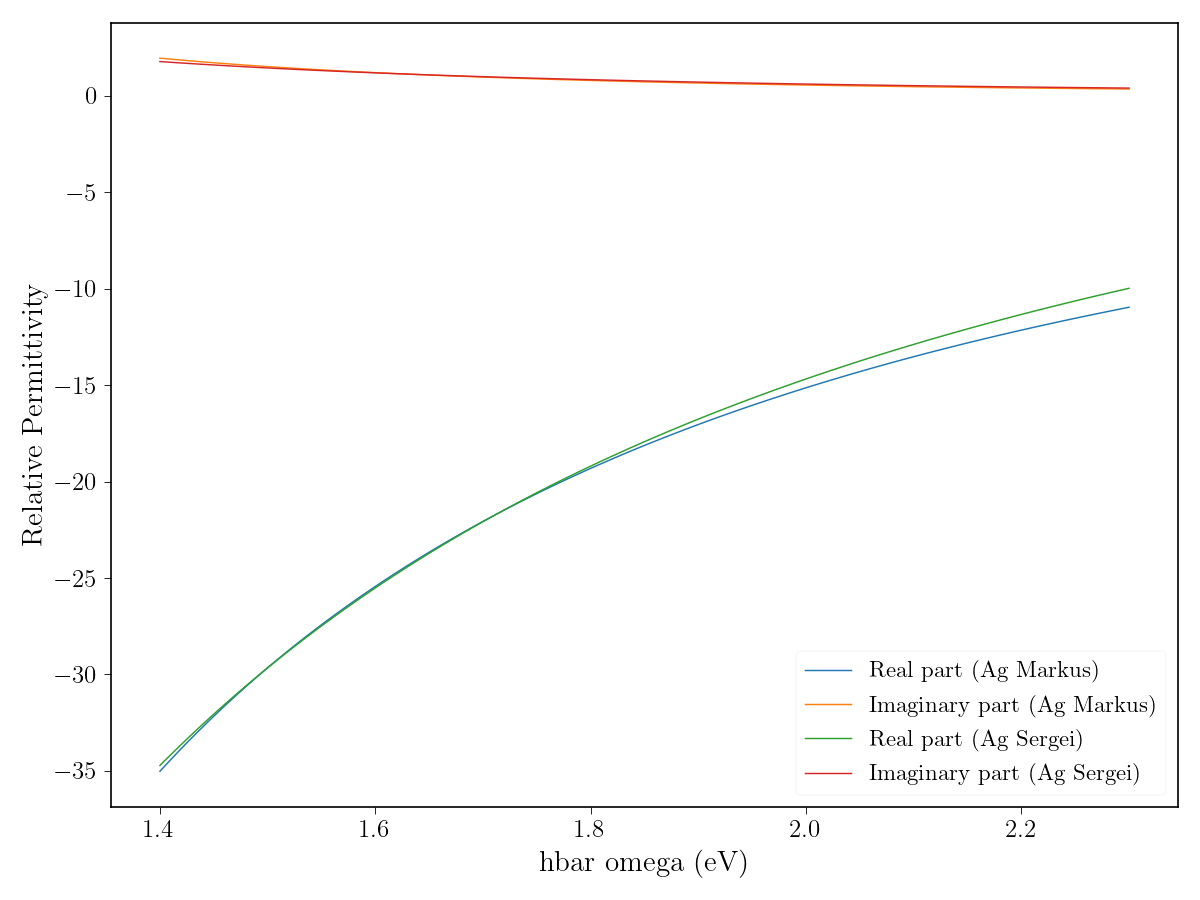
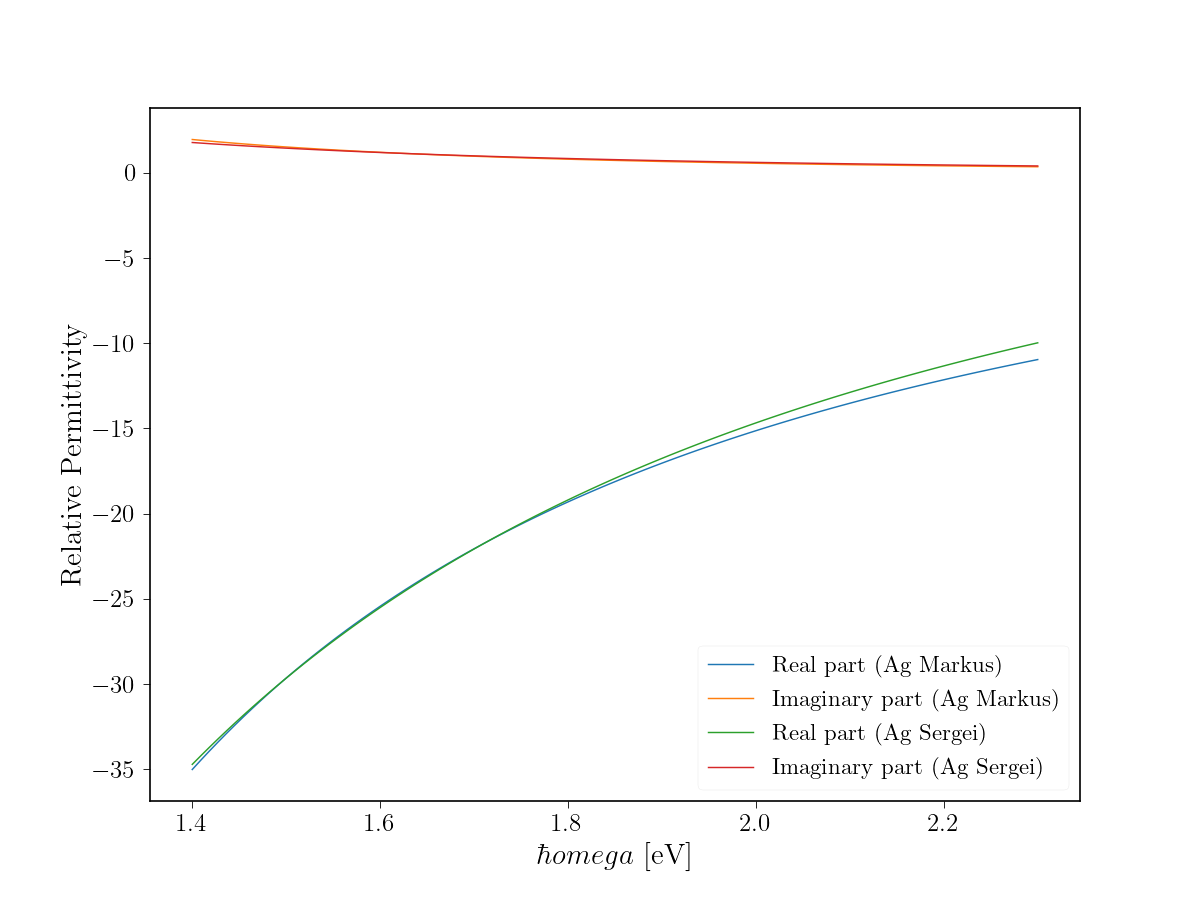
experimentation

diff --git a/qnmsc/track_qnms_osc.py b/qnmsc/track_qnms_osc.py
@@ -1,0 +1,114 @@
+from qnmsc.materials import eps_surmof
+from qnmsc.track_qnms import *
+
+def filename_osc(npoles, ds, damping, kpar_eV, domain):
+  d = domain
+  folder = Path(f"tmp/domain_{d[0].real}_{d[0].imag}_{d[1].real}_{d[1].imag}")
+  folder.mkdir(parents=True, exist_ok=True)
+  file = folder/f"fine_{npoles}pole_{ds[0]}m_{ds[1]}s_{ds[2]}m_{kpar_eV}kp_{damping}damping.pkl"
+  return file
+
+def find_qnms_osc(osc_scalings, npoles=3, ds=(0.01, 1/4.780315, 0.03), damping=1, kpar_eV=0,
+              domain=[1-0.5j, 2.5+0.05j], checkpointing=True, plotting=True, Dmax=22, tol_aaa=1e-9, N=100):
+  """Find the poles of the S-matrix of a surmof cavity 
+
+  Args:
+    osc_scalings (iterable): Oscillator Strengths to scan over
+    npoles (int, optional): 
+        Number of Poles of the SURMOF material to consider. Defaults to 3.
+    ds (tuple[int, int, int], optional): 
+        thicknesses of mirror1, surmof, mirror2.
+    damping (int, optional): 
+        Scaling factor for the damping. Defaults to 1.
+    checkpointing (bool, optional): 
+        Whether to write results to a cache file (and avoid recomputing 
+        results already present in the future). Defaults to True.
+  """
+  fname = filename_osc(npoles, ds, damping, kpar_eV, domain)
+
+  all_poles = []
+  all_residues = []
+  oscs_new = osc_scalings
+  if checkpointing:
+    try:
+      with open(fname, 'rb') as file:
+        cache = pickle.load(file)
+      all_poles    = cache['poles']
+      all_residues = cache['residues']
+
+      oscs_new = [osc for osc in osc_scalings if osc not in cache['osc_scaling']] # TODO
+      osc_scalings = np.concat([np.array(cache['osc_scaling']), np.array(oscs_new)])
+    except FileNotFoundError:
+      pass
+
+  for osc in tqdm(oscs_new):
+    f = partial(det_smat, 
+      thickness=ds[1], mirror1d=ds[0], mirror2d=ds[2], npoles=npoles, 
+      scale_osc=osc, scale_damping=damping, kpar_eV=kpar_eV
+    )
+
+    poles, residues, evals = selective_refinement_aaa(
+      f, domain=domain, 
+      N=100, use_adaptive=False, tol_aaa=tol_aaa, tol_pol=1e-7, Dmax=Dmax)
+                    
+    all_poles.append(poles)
+    all_residues.append(residues)
+
+    if checkpointing:
+      oscs_tmp = osc_scalings[:len(all_poles)]
+      sorter = np.argsort(oscs_tmp)
+      poles_tmp    = [all_poles[i] for i in sorter]
+      residues_tmp = [all_residues[i] for i in sorter]
+      oscs_tmp     = [oscs_tmp[i] for i in sorter]
+      with open(fname, "wb") as file:
+        pickle.dump({
+          "poles":      poles_tmp, 
+          "residues":   residues_tmp, 
+          "osc_scaling":oscs_tmp
+        }, file)
+  if plotting:
+    plt.figure()
+    eyes(osc_scalings, all_poles, all_residues)
+
+    ho_r = np.linspace(domain[0].real, domain[1].real, num=201)
+    ho_i = np.linspace(domain[0].imag, domain[1].imag, num=201)
+    hbar_omega = ho_r[:, None] + 1j*ho_i[None, :]
+    plt.pcolormesh(
+    eps = eps_surmof(
+        hbar_omega, 
+        npoles=npoles, 
+        scale_osc=scale_osc, 
+        scale_damping=scale_damping
+    ))
+    
+    plt.savefig(fname.parent/(fname.stem+".png"), dpi=600)
+    plt.close()
+  
+  return all_poles, all_residues
+
+def eyes(ts, all_poles, all_residues):
+  ts = np.abs(ts)
+  cmap = mpl.cm.viridis
+  norm = mpl.colors.Normalize(vmin=min(ts), vmax=max(ts))
+  colors = cmap(norm(ts))
+  for color, poles, residues in zip(colors, all_poles, all_residues):
+      filtered_poles = poles
+      plt.scatter(filtered_poles.real, filtered_poles.imag, color=color, s=np.sqrt(np.abs(residues))*100)
+
+  plt.colorbar(mpl.cm.ScalarMappable(cmap=cmap, norm=norm), ax=plt.gca(), label="$\eta$")
+
+  plt.xlabel(r"$\Re\{\hbar \tilde \omega\}$ [eV]")
+  plt.ylabel(r"$\Im\{\hbar \tilde \omega\}$ [eV]")
+  plt.tight_layout()
+
+if __name__ == "__main__":
+  osc_scalings = np.logspace(-3, 0, 128+1)
+  domain = [1-0.5j, 2.5+0.05j]
+
+
+  all_poles, all_residues = find_qnms_osc(
+    osc_scalings, ds=(0, 3/4.780315, 0.3), 
+    npoles=1, damping=1, domain=domain, kpar_eV=0.8,
+    checkpointing=True
+  )
+

diff --git a/qnmsc/materials.py b/qnmsc/materials.py
@@ -18,7 +18,8 @@ def surmof_material_data(scale_damping, scale_osc):
     gamma = _f_to_omega(
         np.array([5.3, 6.0, 6.2]) * scale_damping
     ) # in s^-1
-    
+
+
     intensity = np.array([14.84804589, 1.63227866, 1.04500718]) * scale_osc
     eps_background = 1.6
     return omega_0, gamma, intensity, eps_background
@@ -48,6 +49,7 @@ def eps_surmof(hbar_omega, npoles, scale_osc=1, scale_damping=1):
 
     omega = to_omega(hbar_omega)
     eps = eps_background*np.ones_like(hbar_omega, dtype='complex')
+
     for i in range(npoles):
         eps += omega_p[i]**2 / (omega_0[i]**2 - omega**2 - 1j*omega*gamma[i])
 
@@ -71,6 +73,9 @@ def eps_ag_markus(hbar_omega):
 
     omega = to_omega(hbar_omega)
     return 1 + Agwp**2 / (Agw0**2 - omega**2 - 1j*Aggamma*omega)
+
+def eps_ag_nondispersive(hbar_omega, hbar_omega_0 = 1.7):
+    return eps_ag_markus(hbar_omega_0)
 
 def eps_ag_sergei(hbar_omega):
     """Relative Permittivity of the silver material
@@ -100,7 +105,7 @@ def eps_ag_sergei(hbar_omega):
 
     return epsilon_hat - omega_plas**2/(omega**2+1j*gamma*omega)
 
-eps_ag = eps_ag_markus
+eps_ag = eps_ag_nondispersive#eps_ag_markus
 
 if __name__ == "__main__":
     # Testing the eps_surmof function

diff --git a/qnmsc/surmof_cavity.py b/qnmsc/surmof_cavity.py
@@ -41,7 +41,7 @@ import staaax
 def ag_surmof_cavity_smat(
   hbar_omega, thickness, npoles:int = 3, 
   scale_osc:float=1, scale_damping:float=1, 
-  mirror1d = 0.01, mirror2d = 0.03
+  mirror1d = 0.01, mirror2d = 0.03, kpar_eV=0
   ):
     
   n_surmof = np.sqrt(eps_surmof(
@@ -57,20 +57,20 @@ def ag_surmof_cavity_smat(
   ns = [1, n_ag, n_surmof, n_ag, 1]
   k0 = to_omega(hbar_omega)/c0 * 1e-6 # in 1/um
   # print(f"{k0=}")
-  kx = 0
+  kx = to_omega(kpar_eV)/c0 * 1e-6
   stack, info = staaax.angled_stratified.stack_smat_kx(ds, ns, k0, kx, pol="p")
   return stack()
 
 def ag_surmof_cavity_det_smat(
   hbar_omega, thickness, npoles:int = 3, 
   scale_osc:float=1, scale_damping:float=1, 
-  mirror1d = 0.01, mirror2d = 0.03
+  mirror1d = 0.01, mirror2d = 0.03, kpar_eV:float=0
   ):
     
   smat = ag_surmof_cavity_smat(
     hbar_omega, thickness, npoles, 
     scale_osc, scale_damping, 
-    mirror1d, mirror2d
+    mirror1d, mirror2d, kpar_eV=kpar_eV
   )
   smat, portmap = sax.sdense(smat)
   return np.linalg.det(smat)

diff --git a/qnmsc/plot_trajectories.py b/qnmsc/plot_trajectories.py
@@ -491,9 +491,10 @@ if __name__ == "__main__":
 
       fig, axss = plt.subplots(
           2, len(oscs)+3, sharex="col",
-          figsize=(150*mm,90*mm), 
+          figsize=(150*mm,60*mm), 
           #constrained_layout=True, 
-          width_ratios=[1.4,1,1,0.06,0.12,1,0.06], #([1]*2 + [0.06])*2
+          width_ratios=[1,1,1,0.06,0.12,1,0.06],
+          #width_ratios=[1.4,1,1,0.06,0.12,1,0.06], #([1]*2 + [0.06])*2
           height_ratios=[0.8, 1]
           )
 
